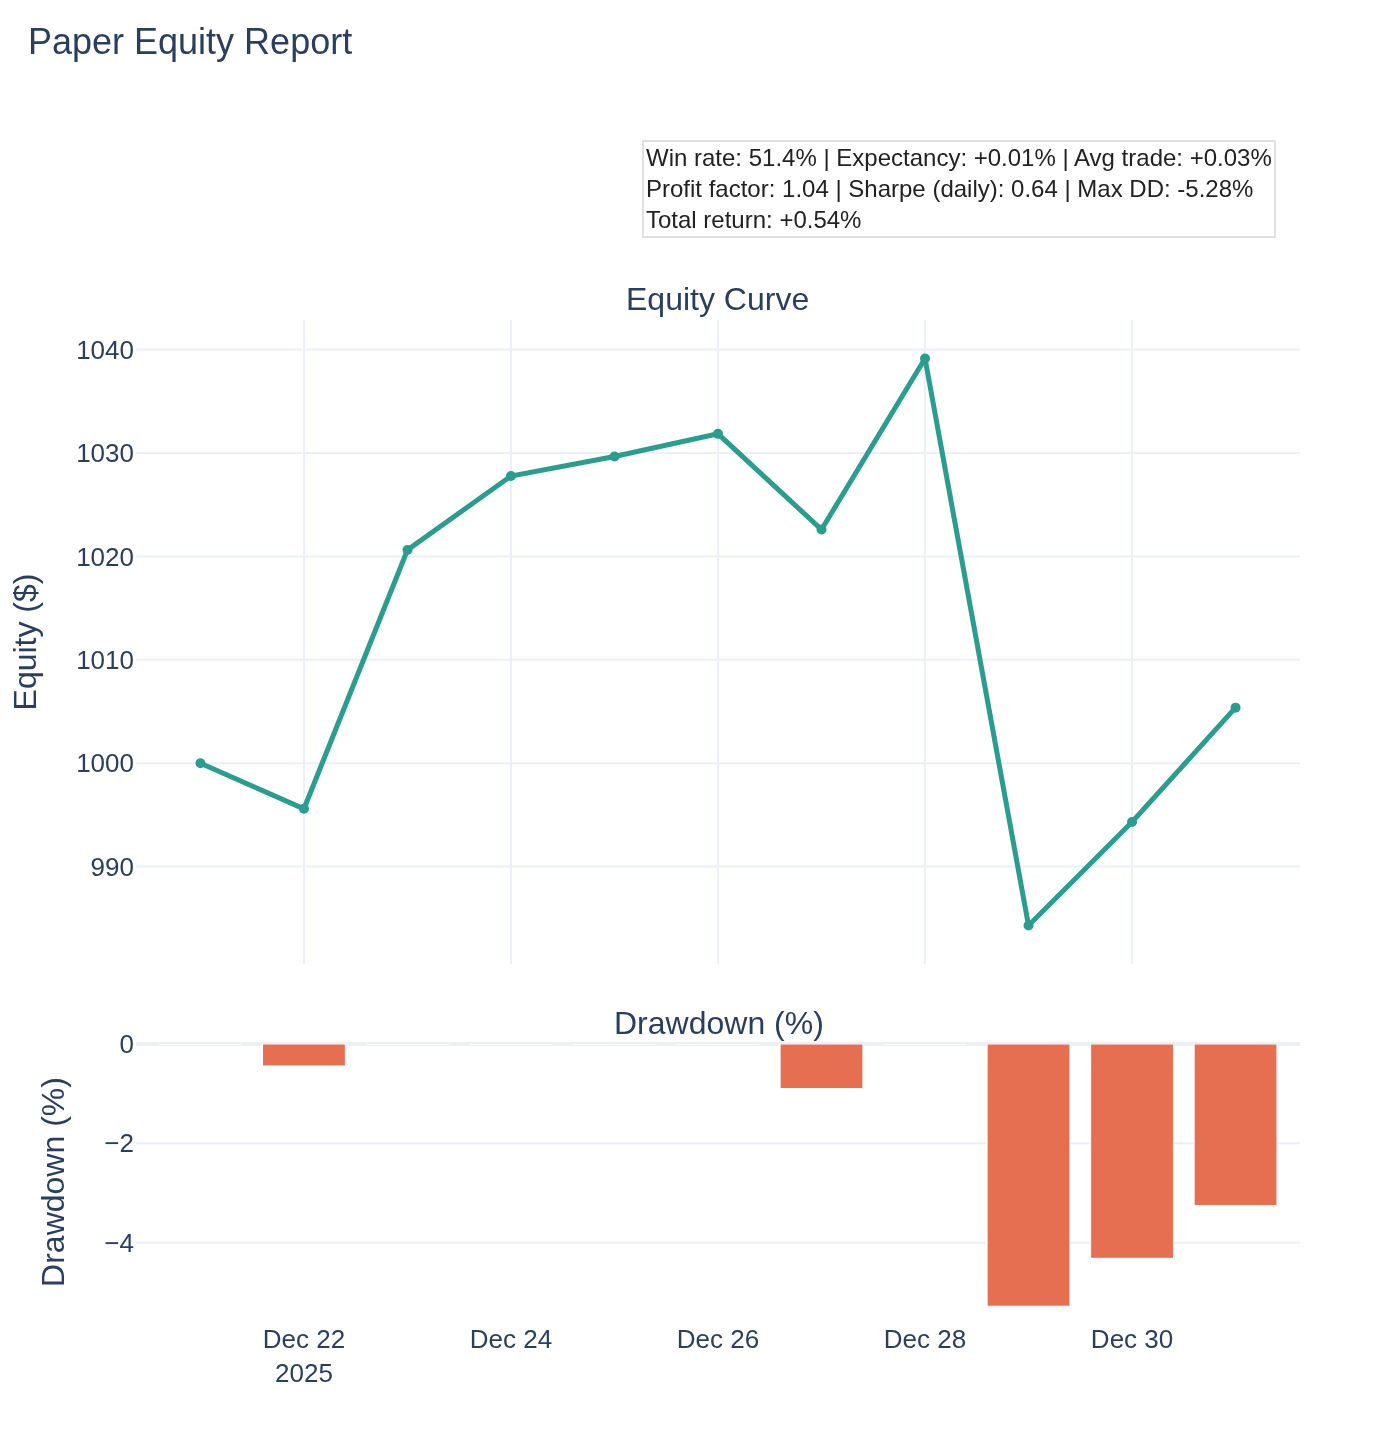
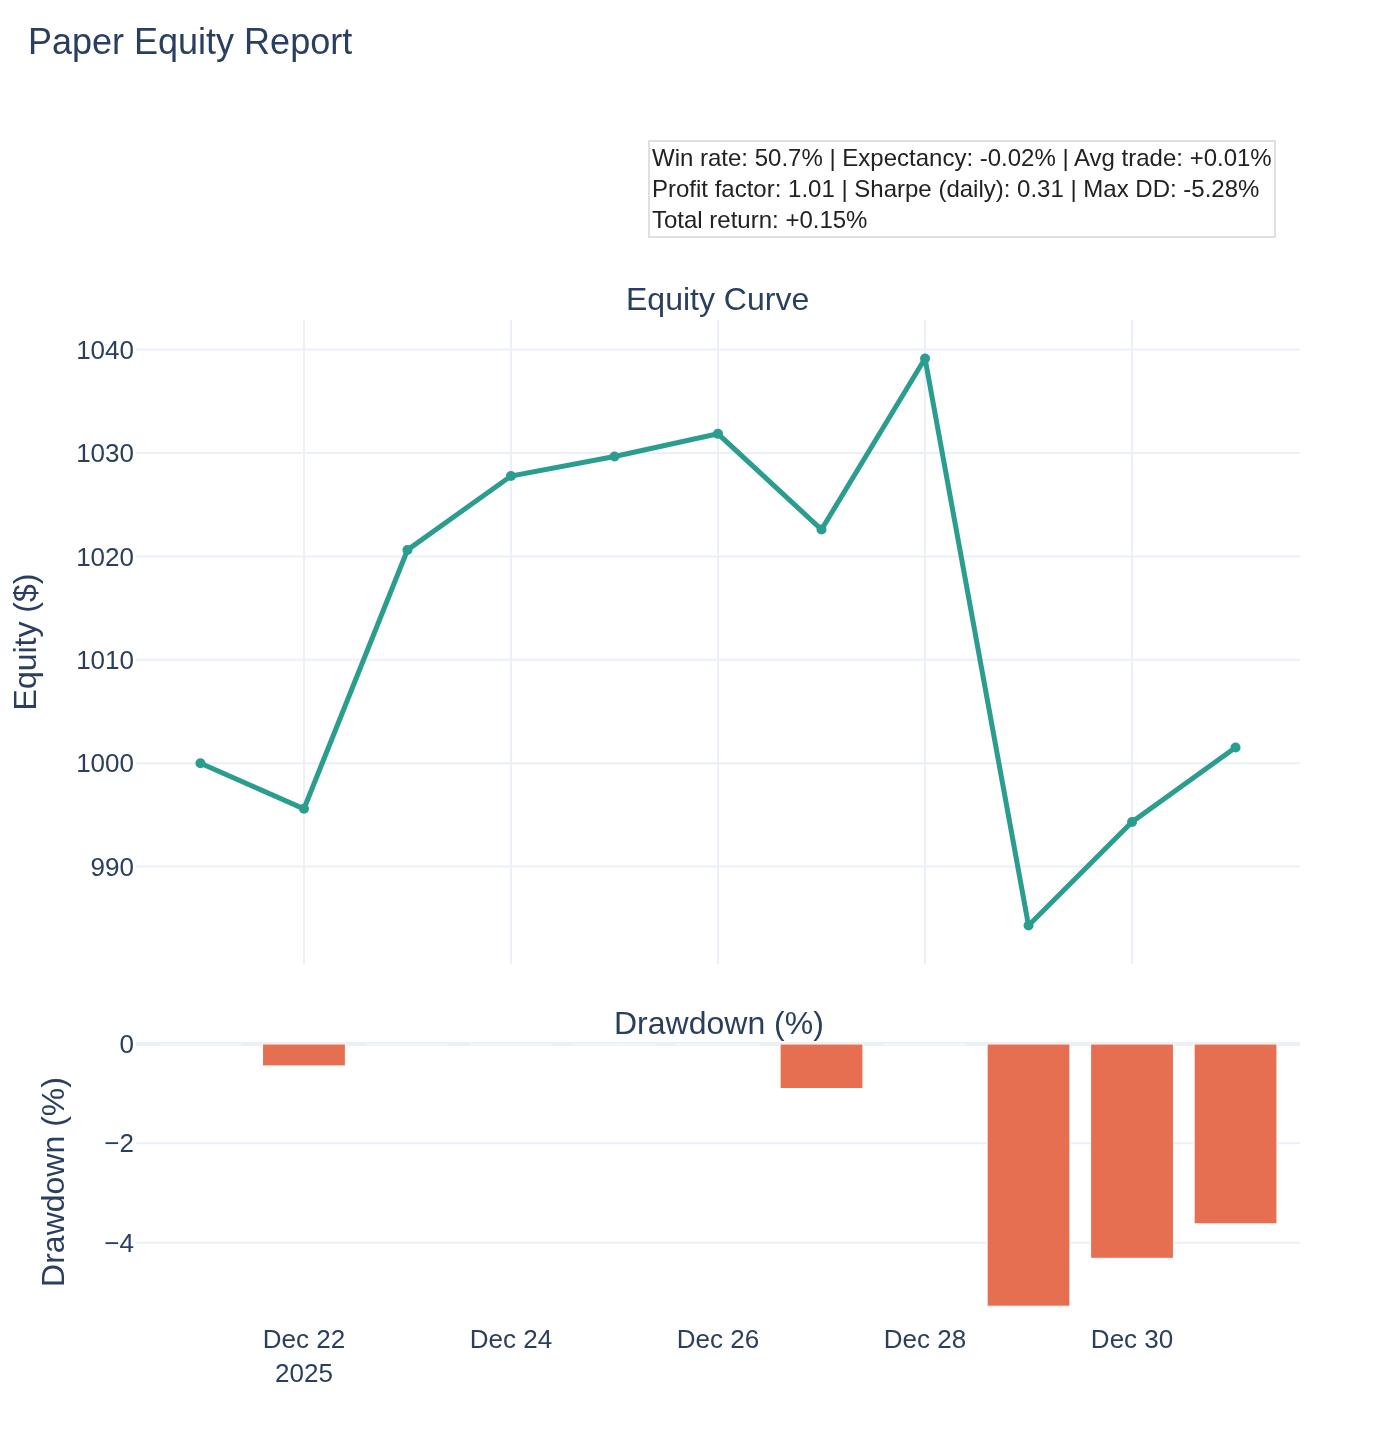
Update paper equity reports and open positions log

diff --git a/reports/paper_equity_report.html b/reports/paper_equity_report.html
@@ -2,6 +2,6 @@
 <head><meta charset="utf-8" /></head>
 <body>
     <div>                        <script type="text/javascript">window.PlotlyConfig = {MathJaxConfig: 'local'};</script>
[1 lines of base64/hex data omitted]
+        <script charset="utf-8" src="https://cdn.plot.ly/plotly-3.3.0.min.js" integrity="sha256-bO3dS6yCpk9aK4gUpNELtCiDeSYvGYnK7jFI58NQnHI=" crossorigin="anonymous"></script>                <div id="a5626fb5-49cb-482b-9c64-fe58f75bacf2" class="plotly-graph-div" style="height:720px; width:100%;"></div>            <script type="text/javascript">                window.PLOTLYENV=window.PLOTLYENV || {};                                if (document.getElementById("a5626fb5-49cb-482b-9c64-fe58f75bacf2")) {                    Plotly.newPlot(                        "a5626fb5-49cb-482b-9c64-fe58f75bacf2",                        [{"line":{"color":"#2a9d8f","width":2.5},"marker":{"color":"#2a9d8f","size":5},"mode":"lines+markers","name":"Equity","x":["2025-12-21","2025-12-22","2025-12-23","2025-12-24","2025-12-25","2025-12-26","2025-12-27","2025-12-28","2025-12-29","2025-12-30","2025-12-31"],"y":{"dtype":"f8","bdata":"AAAAAABAj0AfhetRuByPQClcj8L15I9ArkfhehQPkEBxPQrXoxaQQGZmZmZmH5BAzczMzMz0j0DD9ShcjzyQQGZmZmZmwo5Aw\u002fUoXI8Sj0Bcj8L1KEyPQA=="},"type":"scatter","xaxis":"x","yaxis":"y"},{"marker":{"color":"#e76f51"},"name":"Drawdown","x":["2025-12-21","2025-12-22","2025-12-23","2025-12-24","2025-12-25","2025-12-26","2025-12-27","2025-12-28","2025-12-29","2025-12-30","2025-12-31"],"y":{"dtype":"f8","bdata":"AAAAAAAAAACZTWIQWDncvwAAAAAAAAAAAAAAAAAAAAAAAAAAAAAAAAAAAAAAAAAAF3eV+7Ov7L8AAAAAAAAAAKu7tHsZHBXAUTfly7JAEcAcP\u002f+UYPYMwA=="},"type":"bar","xaxis":"x2","yaxis":"y2"}],                        {"template":{"data":{"barpolar":[{"marker":{"line":{"color":"white","width":0.5},"pattern":{"fillmode":"overlay","size":10,"solidity":0.2}},"type":"barpolar"}],"bar":[{"error_x":{"color":"#2a3f5f"},"error_y":{"color":"#2a3f5f"},"marker":{"line":{"color":"white","width":0.5},"pattern":{"fillmode":"overlay","size":10,"solidity":0.2}},"type":"bar"}],"carpet":[{"aaxis":{"endlinecolor":"#2a3f5f","gridcolor":"#C8D4E3","linecolor":"#C8D4E3","minorgridcolor":"#C8D4E3","startlinecolor":"#2a3f5f"},"baxis":{"endlinecolor":"#2a3f5f","gridcolor":"#C8D4E3","linecolor":"#C8D4E3","minorgridcolor":"#C8D4E3","startlinecolor":"#2a3f5f"},"type":"carpet"}],"choropleth":[{"colorbar":{"outlinewidth":0,"ticks":""},"type":"choropleth"}],"contourcarpet":[{"colorbar":{"outlinewidth":0,"ticks":""},"type":"contourcarpet"}],"contour":[{"colorbar":{"outlinewidth":0,"ticks":""},"colorscale":[[0.0,"#0d0887"],[0.1111111111111111,"#46039f"],[0.2222222222222222,"#7201a8"],[0.3333333333333333,"#9c179e"],[0.4444444444444444,"#bd3786"],[0.5555555555555556,"#d8576b"],[0.6666666666666666,"#ed7953"],[0.7777777777777778,"#fb9f3a"],[0.8888888888888888,"#fdca26"],[1.0,"#f0f921"]],"type":"contour"}],"heatmap":[{"colorbar":{"outlinewidth":0,"ticks":""},"colorscale":[[0.0,"#0d0887"],[0.1111111111111111,"#46039f"],[0.2222222222222222,"#7201a8"],[0.3333333333333333,"#9c179e"],[0.4444444444444444,"#bd3786"],[0.5555555555555556,"#d8576b"],[0.6666666666666666,"#ed7953"],[0.7777777777777778,"#fb9f3a"],[0.8888888888888888,"#fdca26"],[1.0,"#f0f921"]],"type":"heatmap"}],"histogram2dcontour":[{"colorbar":{"outlinewidth":0,"ticks":""},"colorscale":[[0.0,"#0d0887"],[0.1111111111111111,"#46039f"],[0.2222222222222222,"#7201a8"],[0.3333333333333333,"#9c179e"],[0.4444444444444444,"#bd3786"],[0.5555555555555556,"#d8576b"],[0.6666666666666666,"#ed7953"],[0.7777777777777778,"#fb9f3a"],[0.8888888888888888,"#fdca26"],[1.0,"#f0f921"]],"type":"histogram2dcontour"}],"histogram2d":[{"colorbar":{"outlinewidth":0,"ticks":""},"colorscale":[[0.0,"#0d0887"],[0.1111111111111111,"#46039f"],[0.2222222222222222,"#7201a8"],[0.3333333333333333,"#9c179e"],[0.4444444444444444,"#bd3786"],[0.5555555555555556,"#d8576b"],[0.6666666666666666,"#ed7953"],[0.7777777777777778,"#fb9f3a"],[0.8888888888888888,"#fdca26"],[1.0,"#f0f921"]],"type":"histogram2d"}],"histogram":[{"marker":{"pattern":{"fillmode":"overlay","size":10,"solidity":0.2}},"type":"histogram"}],"mesh3d":[{"colorbar":{"outlinewidth":0,"ticks":""},"type":"mesh3d"}],"parcoords":[{"line":{"colorbar":{"outlinewidth":0,"ticks":""}},"type":"parcoords"}],"pie":[{"automargin":true,"type":"pie"}],"scatter3d":[{"line":{"colorbar":{"outlinewidth":0,"ticks":""}},"marker":{"colorbar":{"outlinewidth":0,"ticks":""}},"type":"scatter3d"}],"scattercarpet":[{"marker":{"colorbar":{"outlinewidth":0,"ticks":""}},"type":"scattercarpet"}],"scattergeo":[{"marker":{"colorbar":{"outlinewidth":0,"ticks":""}},"type":"scattergeo"}],"scattergl":[{"marker":{"colorbar":{"outlinewidth":0,"ticks":""}},"type":"scattergl"}],"scattermapbox":[{"marker":{"colorbar":{"outlinewidth":0,"ticks":""}},"type":"scattermapbox"}],"scattermap":[{"marker":{"colorbar":{"outlinewidth":0,"ticks":""}},"type":"scattermap"}],"scatterpolargl":[{"marker":{"colorbar":{"outlinewidth":0,"ticks":""}},"type":"scatterpolargl"}],"scatterpolar":[{"marker":{"colorbar":{"outlinewidth":0,"ticks":""}},"type":"scatterpolar"}],"scatter":[{"fillpattern":{"fillmode":"overlay","size":10,"solidity":0.2},"type":"scatter"}],"scatterternary":[{"marker":{"colorbar":{"outlinewidth":0,"ticks":""}},"type":"scatterternary"}],"surface":[{"colorbar":{"outlinewidth":0,"ticks":""},"colorscale":[[0.0,"#0d0887"],[0.1111111111111111,"#46039f"],[0.2222222222222222,"#7201a8"],[0.3333333333333333,"#9c179e"],[0.4444444444444444,"#bd3786"],[0.5555555555555556,"#d8576b"],[0.6666666666666666,"#ed7953"],[0.7777777777777778,"#fb9f3a"],[0.8888888888888888,"#fdca26"],[1.0,"#f0f921"]],"type":"surface"}],"table":[{"cells":{"fill":{"color":"#EBF0F8"},"line":{"color":"white"}},"header":{"fill":{"color":"#C8D4E3"},"line":{"color":"white"}},"type":"table"}]},"layout":{"annotationdefaults":{"arrowcolor":"#2a3f5f","arrowhead":0,"arrowwidth":1},"autotypenumbers":"strict","coloraxis":{"colorbar":{"outlinewidth":0,"ticks":""}},"colorscale":{"diverging":[[0,"#8e0152"],[0.1,"#c51b7d"],[0.2,"#de77ae"],[0.3,"#f1b6da"],[0.4,"#fde0ef"],[0.5,"#f7f7f7"],[0.6,"#e6f5d0"],[0.7,"#b8e186"],[0.8,"#7fbc41"],[0.9,"#4d9221"],[1,"#276419"]],"sequential":[[0.0,"#0d0887"],[0.1111111111111111,"#46039f"],[0.2222222222222222,"#7201a8"],[0.3333333333333333,"#9c179e"],[0.4444444444444444,"#bd3786"],[0.5555555555555556,"#d8576b"],[0.6666666666666666,"#ed7953"],[0.7777777777777778,"#fb9f3a"],[0.8888888888888888,"#fdca26"],[1.0,"#f0f921"]],"sequentialminus":[[0.0,"#0d0887"],[0.1111111111111111,"#46039f"],[0.2222222222222222,"#7201a8"],[0.3333333333333333,"#9c179e"],[0.4444444444444444,"#bd3786"],[0.5555555555555556,"#d8576b"],[0.6666666666666666,"#ed7953"],[0.7777777777777778,"#fb9f3a"],[0.8888888888888888,"#fdca26"],[1.0,"#f0f921"]]},"colorway":["#636efa","#EF553B","#00cc96","#ab63fa","#FFA15A","#19d3f3","#FF6692","#B6E880","#FF97FF","#FECB52"],"font":{"color":"#2a3f5f"},"geo":{"bgcolor":"white","lakecolor":"white","landcolor":"white","showlakes":true,"showland":true,"subunitcolor":"#C8D4E3"},"hoverlabel":{"align":"left"},"hovermode":"closest","mapbox":{"style":"light"},"paper_bgcolor":"white","plot_bgcolor":"white","polar":{"angularaxis":{"gridcolor":"#EBF0F8","linecolor":"#EBF0F8","ticks":""},"bgcolor":"white","radialaxis":{"gridcolor":"#EBF0F8","linecolor":"#EBF0F8","ticks":""}},"scene":{"xaxis":{"backgroundcolor":"white","gridcolor":"#DFE8F3","gridwidth":2,"linecolor":"#EBF0F8","showbackground":true,"ticks":"","zerolinecolor":"#EBF0F8"},"yaxis":{"backgroundcolor":"white","gridcolor":"#DFE8F3","gridwidth":2,"linecolor":"#EBF0F8","showbackground":true,"ticks":"","zerolinecolor":"#EBF0F8"},"zaxis":{"backgroundcolor":"white","gridcolor":"#DFE8F3","gridwidth":2,"linecolor":"#EBF0F8","showbackground":true,"ticks":"","zerolinecolor":"#EBF0F8"}},"shapedefaults":{"line":{"color":"#2a3f5f"}},"ternary":{"aaxis":{"gridcolor":"#DFE8F3","linecolor":"#A2B1C6","ticks":""},"baxis":{"gridcolor":"#DFE8F3","linecolor":"#A2B1C6","ticks":""},"bgcolor":"white","caxis":{"gridcolor":"#DFE8F3","linecolor":"#A2B1C6","ticks":""}},"title":{"x":0.05},"xaxis":{"automargin":true,"gridcolor":"#EBF0F8","linecolor":"#EBF0F8","ticks":"","title":{"standoff":15},"zerolinecolor":"#EBF0F8","zerolinewidth":2},"yaxis":{"automargin":true,"gridcolor":"#EBF0F8","linecolor":"#EBF0F8","ticks":"","title":{"standoff":15},"zerolinecolor":"#EBF0F8","zerolinewidth":2}}},"xaxis":{"anchor":"y","domain":[0.0,1.0],"matches":"x2","showticklabels":false},"yaxis":{"anchor":"x","domain":[0.35600000000000004,1.0],"title":{"text":"Equity ($)"}},"xaxis2":{"anchor":"y2","domain":[0.0,1.0]},"yaxis2":{"anchor":"x2","domain":[0.0,0.276],"title":{"text":"Drawdown (%)"}},"annotations":[{"font":{"size":16},"showarrow":false,"text":"Equity Curve","x":0.5,"xanchor":"center","xref":"paper","y":1.0,"yanchor":"bottom","yref":"paper"},{"font":{"size":16},"showarrow":false,"text":"Drawdown (%)","x":0.5,"xanchor":"center","xref":"paper","y":0.276,"yanchor":"bottom","yref":"paper"},{"align":"left","bgcolor":"rgba(255,255,255,0.9)","bordercolor":"#e0e0e0","borderwidth":1,"font":{"color":"#222","size":12},"showarrow":false,"text":"Win rate: 50.7% | Expectancy: -0.02% | Avg trade: +0.01%\u003cbr\u003eProfit factor: 1.01 | Sharpe (daily): 0.31 | Max DD: -5.28%\u003cbr\u003eTotal return: +0.15%","x":0.98,"xanchor":"right","xref":"paper","y":1.18,"yanchor":"top","yref":"paper"}],"title":{"text":"Paper Equity Report","x":0.02,"xanchor":"left","y":0.98,"yanchor":"top"},"margin":{"l":50,"r":50,"t":160,"b":60},"font":{"size":13},"height":720,"showlegend":false},                        {"responsive": true}                    )                };            </script>        </div>
 </body>
 </html>
